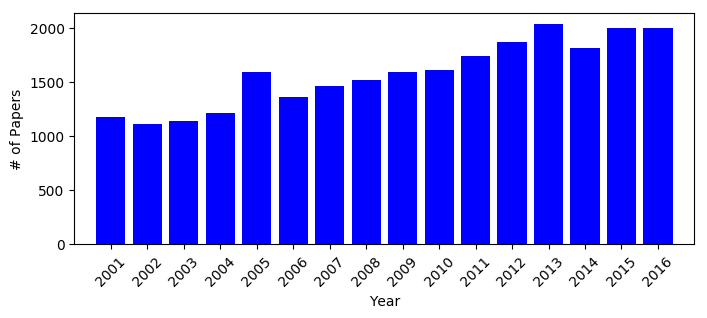
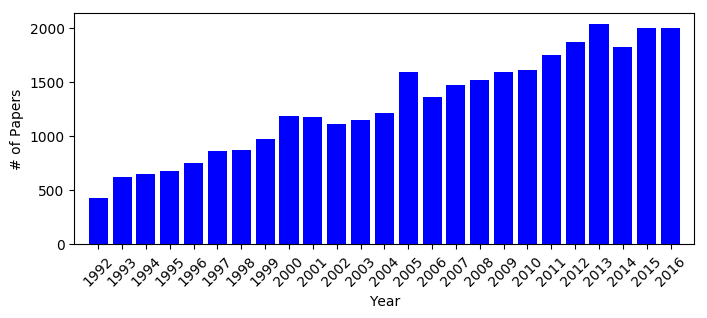
Basic Author stats

Changed region(s): [[0.1245, 0.0566, 0.9646, 0.9057]]

diff --git a/expts/expts_v3.py b/expts/expts_v3.py
@@ -135,6 +135,18 @@ def retrieve_graph_lda_data():
   return miner, graph, lda_model, vocab
 
 
+def retrieve_graph():
+  graph_file = 'cache/%s/graph.pkl' % THE.permitted
+  if os.path.isfile(graph_file):
+    with open(graph_file) as f:
+      graph = pkl.load(f)
+  else:
+    graph = cite_graph(GRAPH_CSV)
+    with open(graph_file, 'wb') as f:
+      pkl.dump(graph, f, pkl.HIGHEST_PROTOCOL)
+  return graph
+
+
 def shorter_names(name):
   name_map = {
     "SOFTWARE" : "S/W",
@@ -250,12 +262,10 @@ def make_dendo_heatmap(arr, row_labels, column_labels, figname, paper_range):
   plt.clf()
 
 
-def paper_bar():
+def paper_bar(start=1992, end=2016):
   print("PAPER BAR for %s" % THE.permitted)
   graph = cite_graph(GRAPH_CSV)
   venues = graph.get_papers_by_venue(permitted=THE.permitted)
-  start = 2001
-  end = 2016
   year_count = {}
   for year in range(start, end + 1):
     year_count[year] = 0
@@ -468,6 +478,70 @@ def reporter():
   report(lda_model, vocab)
 
 
+def authors_percent_in_papers_year(min_year=1992):
+  print("#AUTHOR PERCENT vs YEAR for %s" % THE.permitted)
+  graph = retrieve_graph()
+  year_authors_map = OrderedDict()
+  for _, paper in graph.get_paper_nodes().items():
+    year = paper.year
+    if int(year) < min_year: continue
+    num_authors = len(paper.authors.split(","))
+    year_authors_count = year_authors_map.get(year, {})
+    key = str(num_authors) if num_authors < 7 else "7+"
+    year_authors_count[key] = year_authors_count.get(key, 0) + 1
+    year_authors_map[year] = year_authors_count
+  year_author_percent_map = OrderedDict()
+  keys = ["1", "2", "3", "4", "5", "6", "7+"]
+  authors_count_year_map = OrderedDict()
+  for year in sorted(year_authors_map.keys()):
+    authors_count = year_authors_map[year]
+    total = sum(authors_count.values())
+    percent_map = []
+    for key in keys:
+      percent = round(authors_count.get(key, 0) * 100.0 / total, 2)
+      percent_map.append(percent)
+      authors_count_year_map[key] = authors_count_year_map.get(key, []) + [percent]
+    year_author_percent_map[year] = percent_map
+  colors = ["red", "blue", "darkslategray", "yellow", "darkmagenta", "cyan", "saddlebrown"]
+  x_axis = sorted(year_authors_map.keys())
+  x_indices = np.arange(1, len(x_axis) + 1)
+  legends = []
+  for i, key in enumerate(authors_count_year_map.keys()):
+    plt.plot(x_indices, authors_count_year_map[key], color=colors[i])
+    legends.append(key)
+  plt.legend(legends, loc='upper right', ncol=2, fontsize=10)
+  fig_name = "figs/v3/%s/authors_vs_year.png" % THE.permitted
+  plt.title("Percentage of number of authors per year")
+  plt.xticks(x_indices, x_axis, rotation=60)
+  plt.xlabel("Year")
+  plt.ylabel("Percentage(%)")
+  plt.savefig(fig_name, bbox_inches='tight')
+  plt.clf()
+
+
+def author_bar(min_year=1992):
+  print("AUTHOR BAR for %s" % THE.permitted)
+  graph = retrieve_graph()
+  year_authors_map = OrderedDict()
+  for _, paper in graph.get_paper_nodes().items():
+    year = paper.year
+    if int(year) < min_year: continue
+    authors = paper.authors.split(",")
+    year_authors_map[year] = year_authors_map.get(year, set([])).union(authors)
+  bar_x, bar_index, bar_y = [], [], []
+  for index, year in enumerate(sorted(year_authors_map.keys())):
+    bar_x.append(year)
+    bar_index.append(index + 1)
+    bar_y.append(len(year_authors_map[year]))
+  plt.figure(figsize=(8, 3))
+  plt.bar(bar_index, bar_y, color='blue', align='center')
+  plt.xticks(bar_index, bar_x, rotation=45)
+  plt.xlabel('Year')
+  plt.ylabel('# of Authors')
+  plt.savefig("figs/v3/%s/author_count.png" % THE.permitted, bbox_inches='tight')
+  plt.clf()
+
+
 def _main():
   reporter()
   paper_bar()
@@ -480,6 +554,8 @@ def _main():
   super_author([0.01, 0.1, 0.2, 1.0])
   get_top_papers(year_from=2009)
   get_top_papers()
+  authors_percent_in_papers_year()
+  author_bar()
 
 
 def _store():
